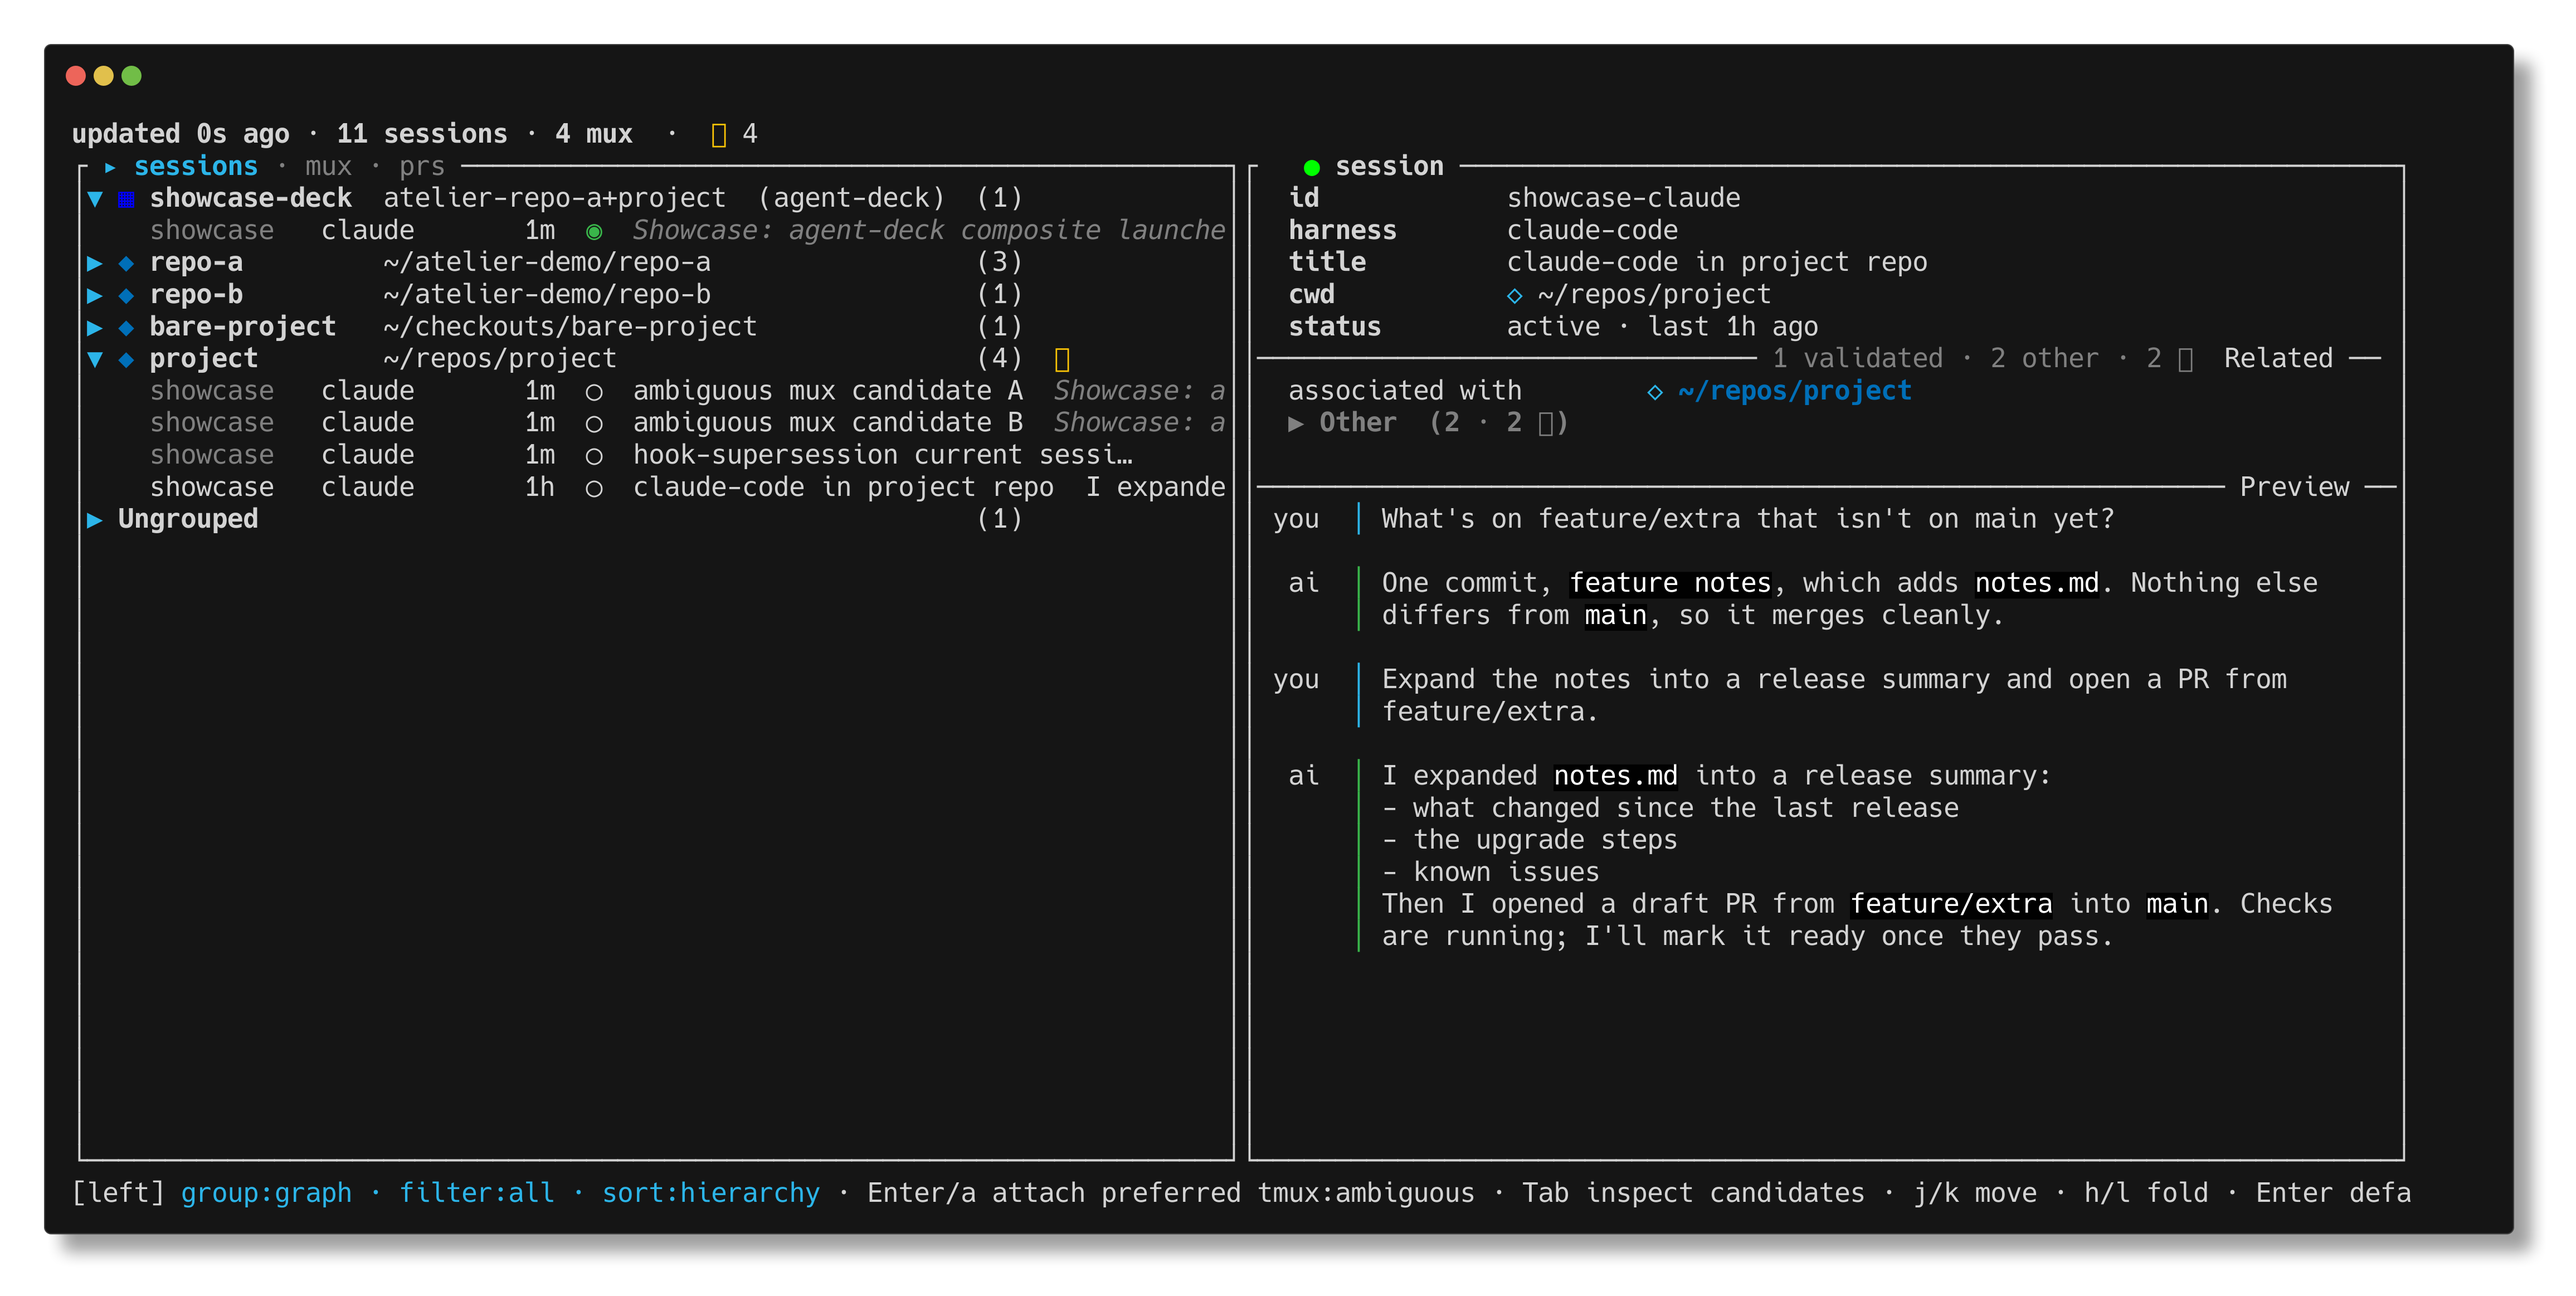
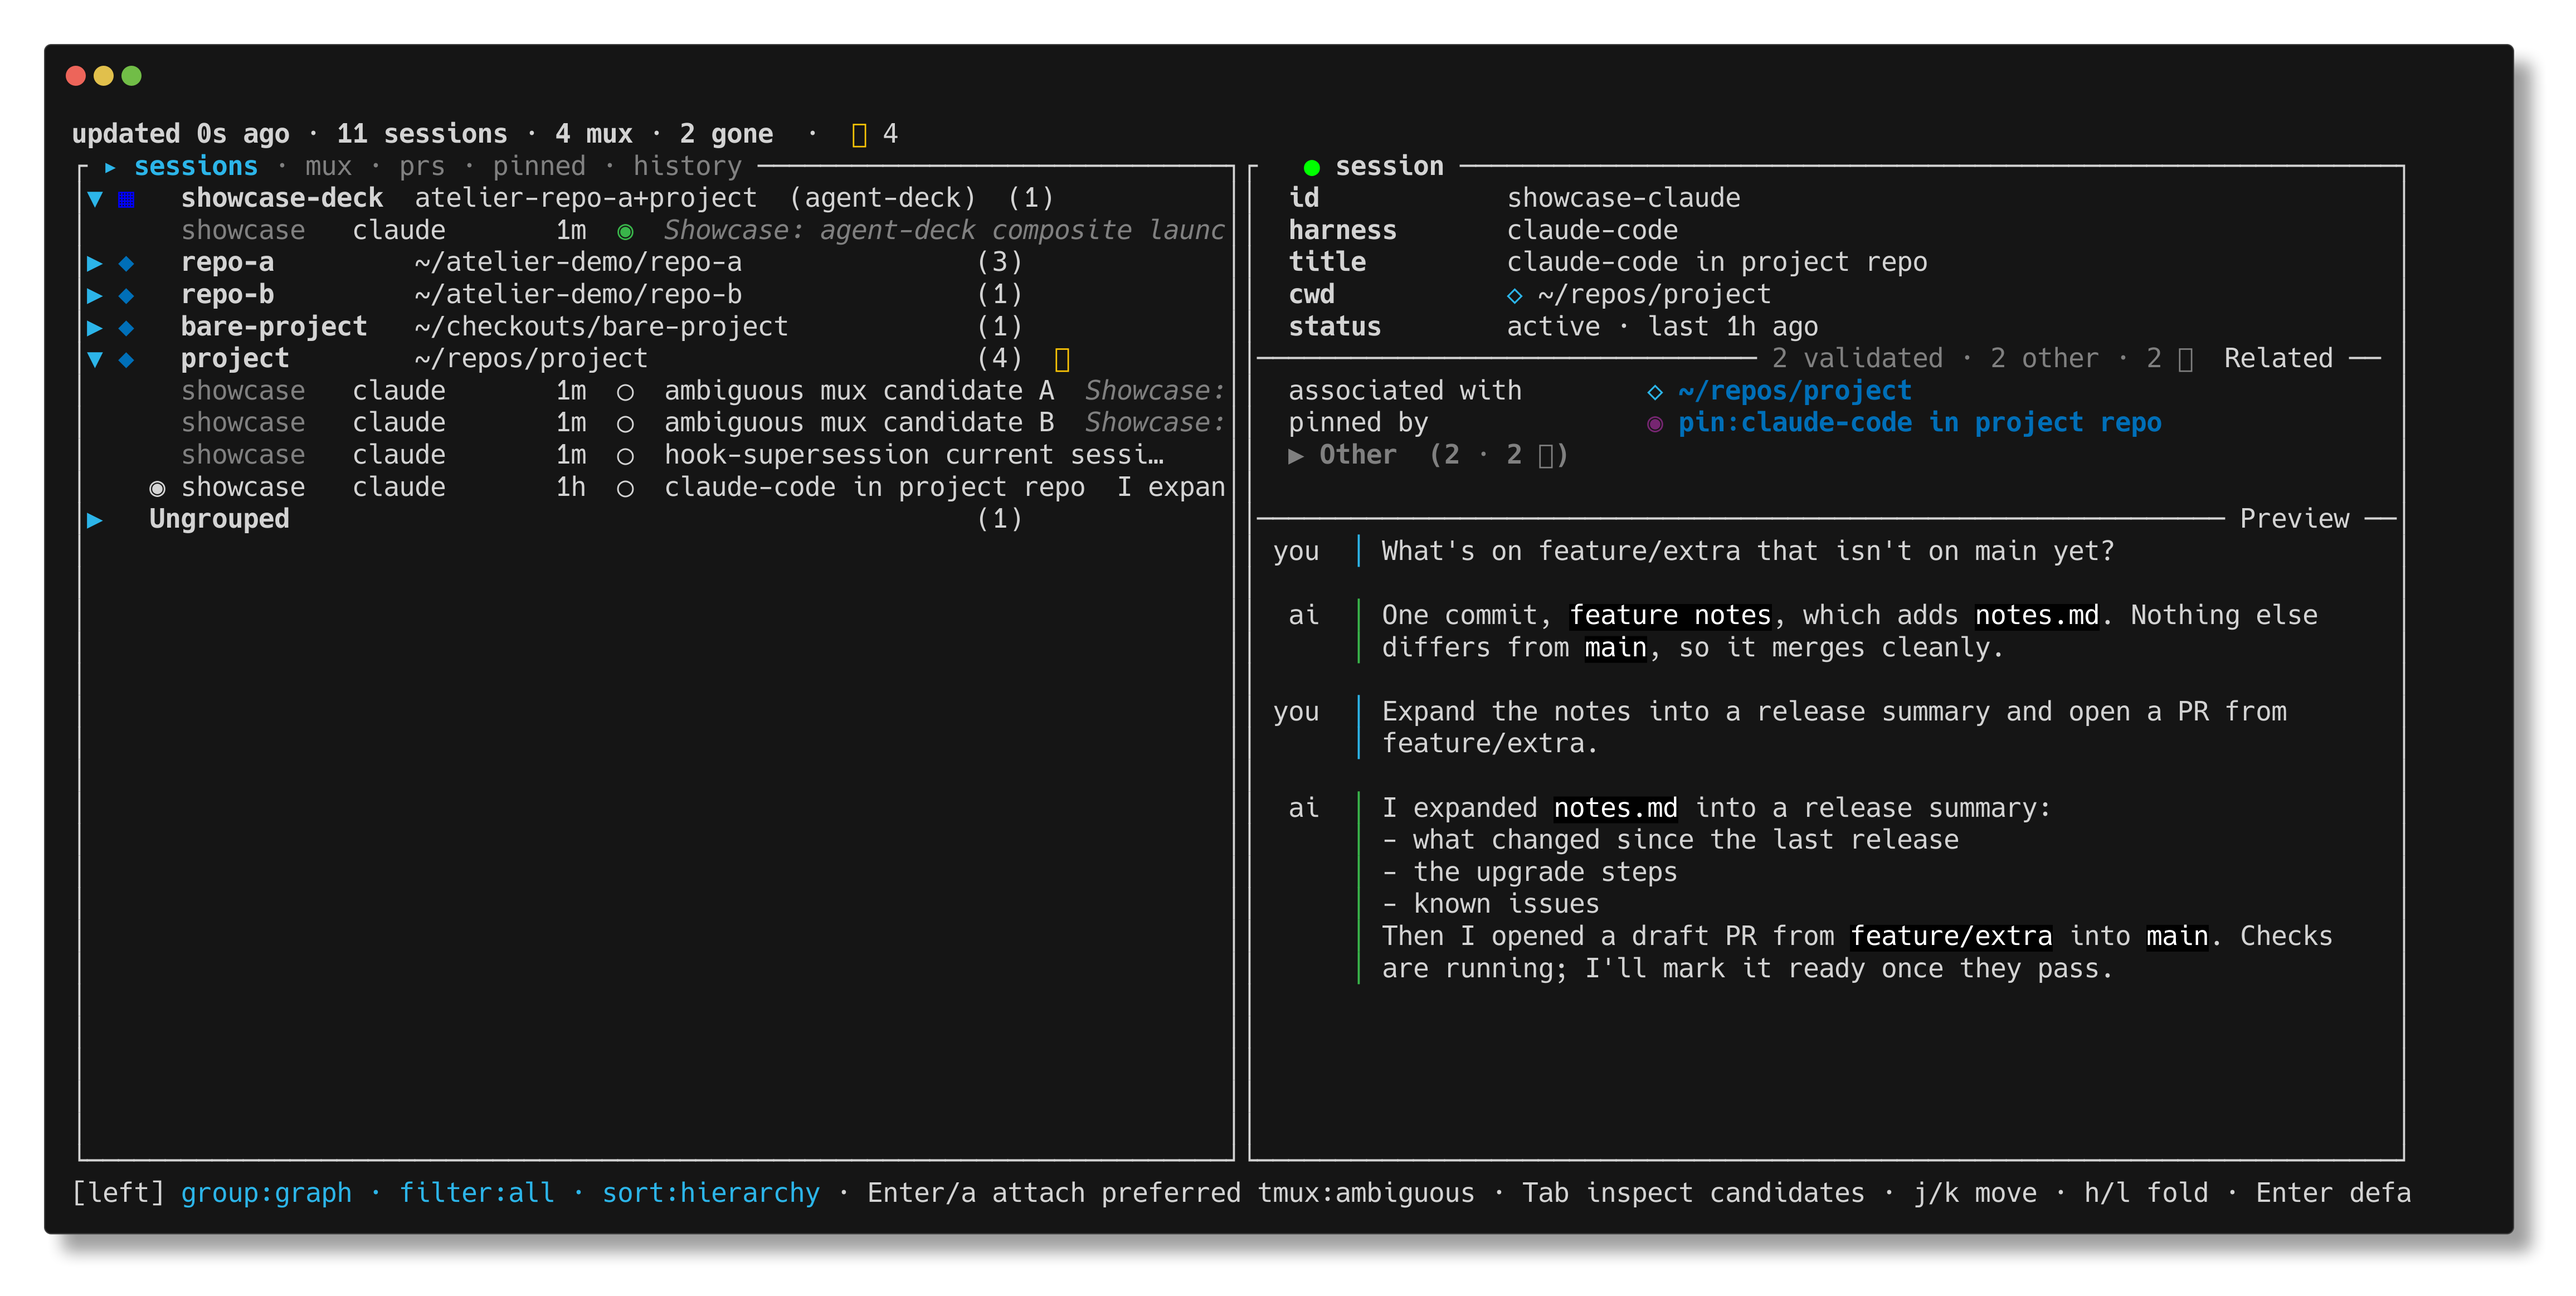
feat(tui): group a worktree slot under the repo it was made from; regenerate screenshots (CSP-679, CSP-685)

Changed region(s): [[0.4984, 0.3095, 0.9345, 0.7739], [0.0311, 0.0929, 0.4672, 0.4024], [0.6541, 0.3095, 0.841, 0.3405]]

diff --git a/src/tui/rows/pinned.rs b/src/tui/rows/pinned.rs
@@ -305,7 +305,11 @@ fn project_of(snapshot: &GraphSnapshot, pin: &PinNode, home: Option<&Path>) -> O
     let path = match pin.kind {
         PinKind::Mux => pin.text("cwd").map(str::to_string).or_else(target_cwd),
         PinKind::Session => target_cwd(),
-        PinKind::Checkout => pin.text("root").map(str::to_string),
+        PinKind::Checkout => pin
+            .text("repo")
+            .map(|r| r.strip_prefix("repo:").unwrap_or(r))
+            .map(|dir| dir.strip_suffix("/.git").unwrap_or(dir).to_string())
+            .or_else(|| pin.text("root").map(str::to_string)),
         PinKind::Repo => pin.text("path").map(str::to_string).or_else(|| {
             pin.text("common_dir")
                 .map(|dir| dir.strip_suffix("/.git").unwrap_or(dir).to_string())

diff --git a/src/tui/rows/pinned_tests.rs b/src/tui/rows/pinned_tests.rs
@@ -147,12 +147,10 @@ fn project_grouping_buckets_by_repo_with_other_last() {
     };
     assert_eq!(
         members("~/src/conspectus"),
-        ["conspectus-main", "e44d01cb", "nightly"]
+        ["conspectus-main", "e44d01cb", "ledger-worktree", "nightly"],
+        "a worktree belongs to the repo it was made from, wherever its directory is"
     );
-    assert_eq!(
-        members("Other"),
-        ["config-agent3", "ledger-worktree", "ledger-pr", "old-api"]
-    );
+    assert_eq!(members("Other"), ["config-agent3", "ledger-pr", "old-api"]);
 }
 
 #[test]
